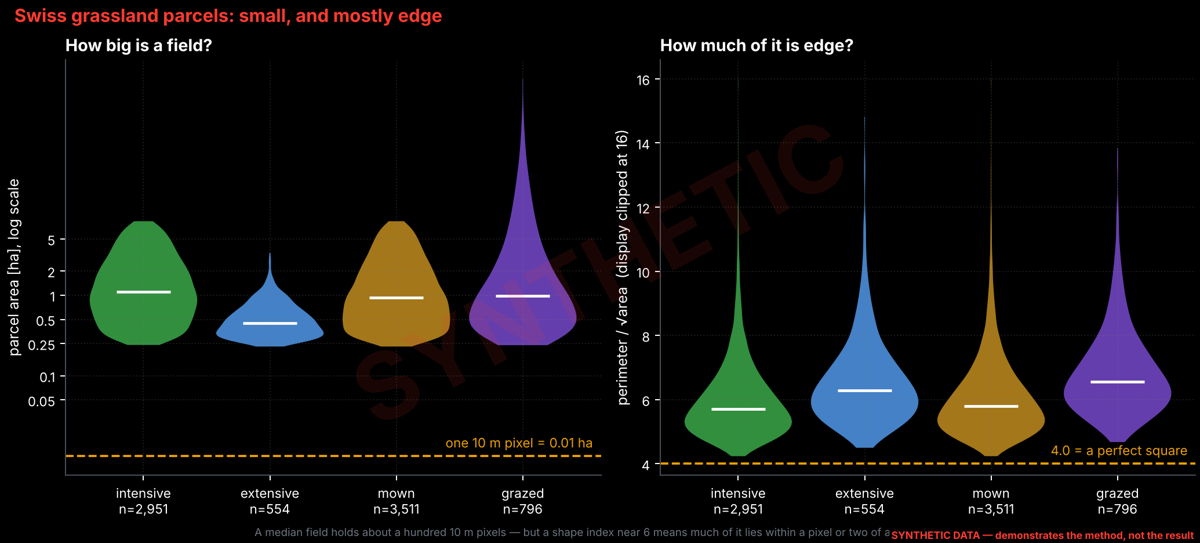
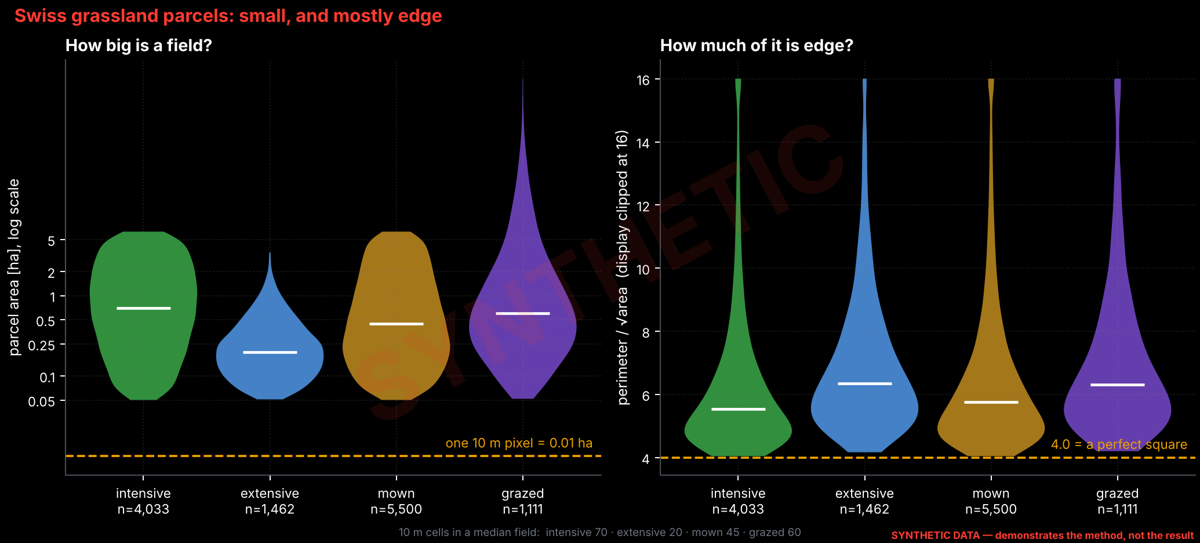
Figures: measured parcel-size caption; credits as x labels
- parcel_size: the caption still claimed "about a hundred 10 m pixels" in a
  median field, true only under the removed 0.25 ha filter. It now prints
  the measured cell counts per category.
- Trajectory and precipitation figures: the data credit, placed freely in
  the figure margin, collided with the "Month" label. The credit is now the
  x label, left-aligned; the month ticks need no label.
- docs/figures/demo regenerated.

diff --git a/src/drought/trajectory.py b/src/drought/trajectory.py
@@ -427,7 +427,6 @@ def make_figure(site: str, regime: str, sub: pd.DataFrame):
                       fontweight="bold", color="white", pad=10)
     panel(axes[1], cum_base, cum_cur,
           f"Cumulative {INDEX} (season integral)", first=False)
-    axes[1].set_xlabel("Month", fontsize=10, color="white")
 
     pct, rank, upto = p["pct"], p["rank"], p["upto"]
     # Shade everything not contributing to the integral.
@@ -444,9 +443,10 @@ def make_figure(site: str, regime: str, sub: pd.DataFrame):
                  bbox=dict(facecolor="#161b22", edgecolor="#30363d",
                            boxstyle="round,pad=0.4"))
 
-    fig.text(0.99, 0.004, f"Sentinel-2 / Cloud Score+ · {INDEX} · "
-             "parcels: Nutzungsflächen",
-             ha="right", va="bottom", fontsize=7, color="#6e7681")
+    # The credit is the x label: the month ticks need no label, and a credit
+    # placed freely in the figure margin collided with the ticks.
+    axes[1].set_xlabel(f"Sentinel-2 / Cloud Score+ · {INDEX}\nparcels: Nutzungsflächen",
+                       loc="left", fontsize=7, color="#6e7681")
     out = str(figures_dir(site) / f"vi_trajectory_{INDEX}_{regime}.png")
     fig.savefig(out, dpi=180, facecolor=fig.get_facecolor())
     print(f"  -> {out}")

diff --git a/src/drought/mask_figures.py b/src/drought/mask_figures.py
@@ -865,9 +865,11 @@ def figure_parcel_size(master=None, group: str | None = None, out: str | Path | 
     fig.suptitle("Swiss grassland parcels: small, and mostly edge",
                  fontsize=12.5, fontweight="bold", color="#ff3b30",
                  x=0.012, ha="left")
-    fig.supxlabel("A median field holds about a hundred 10 m pixels — but a "
-                  "shape index near 6 means much of it lies within a pixel or "
-                  "two of a boundary.", fontsize=7.5, color="#6e7681")
+    # Measured, not written in: the caption once claimed "about a hundred
+    # pixels" long after the size filter that made it true had gone.
+    cells = " · ".join(f"{n} {np.median(data[n][0]) / 0.01:.0f}" for n in names)
+    fig.supxlabel(f"10 m cells in a median field:  {cells}", fontsize=7.5,
+                  color="#6e7681")
     out = out or (figures_dir("mask") / "parcel_size.png")
     fig.savefig(out, dpi=180, facecolor=fig.get_facecolor())
     print(f"\n  -> {out}")

diff --git a/src/drought/precip.py b/src/drought/precip.py
@@ -363,9 +363,9 @@ def main(daily: pd.DataFrame | None = None, abbr: str | None = None,
         print(f"Water balance to DOY {n_days}: {s2[0]:.0f} mm "
               f"(median {s2[1]:.0f} mm), rank {s2[3]}")
 
-    axes[-1].set_xlabel("Month", fontsize=10, color="white")
-    fig.text(0.99, 0.004, "Data: MeteoSchweiz Open Data (SwissMetNet), CC-BY",
-             ha="right", va="bottom", fontsize=7.5, color="#6e7681")
+    # The credit is the x label (see trajectory.make_figure).
+    axes[-1].set_xlabel("Data: MeteoSchweiz Open Data (SwissMetNet), CC-BY",
+                        loc="left", fontsize=7.5, color="#6e7681")
     out = figures_dir("station") / f"precip_{abbr}_{CURRENT_YEAR}.png"
     fig.savefig(out, dpi=200, facecolor=fig.get_facecolor())
     print(f"  -> {out}")
